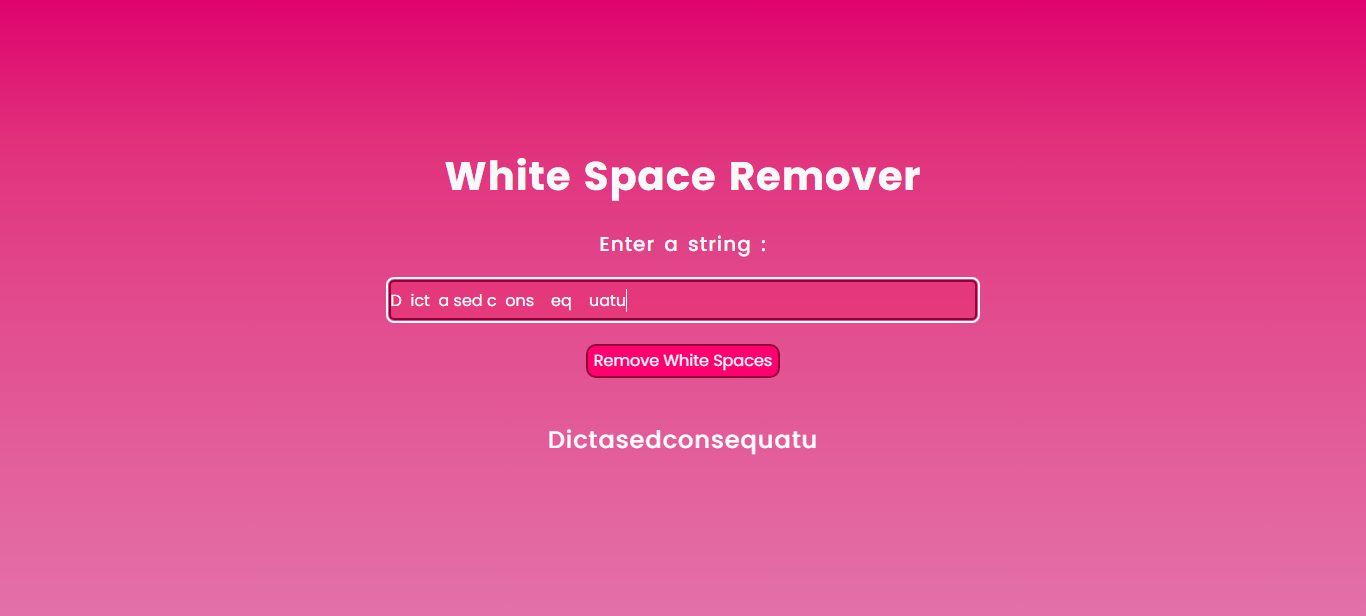
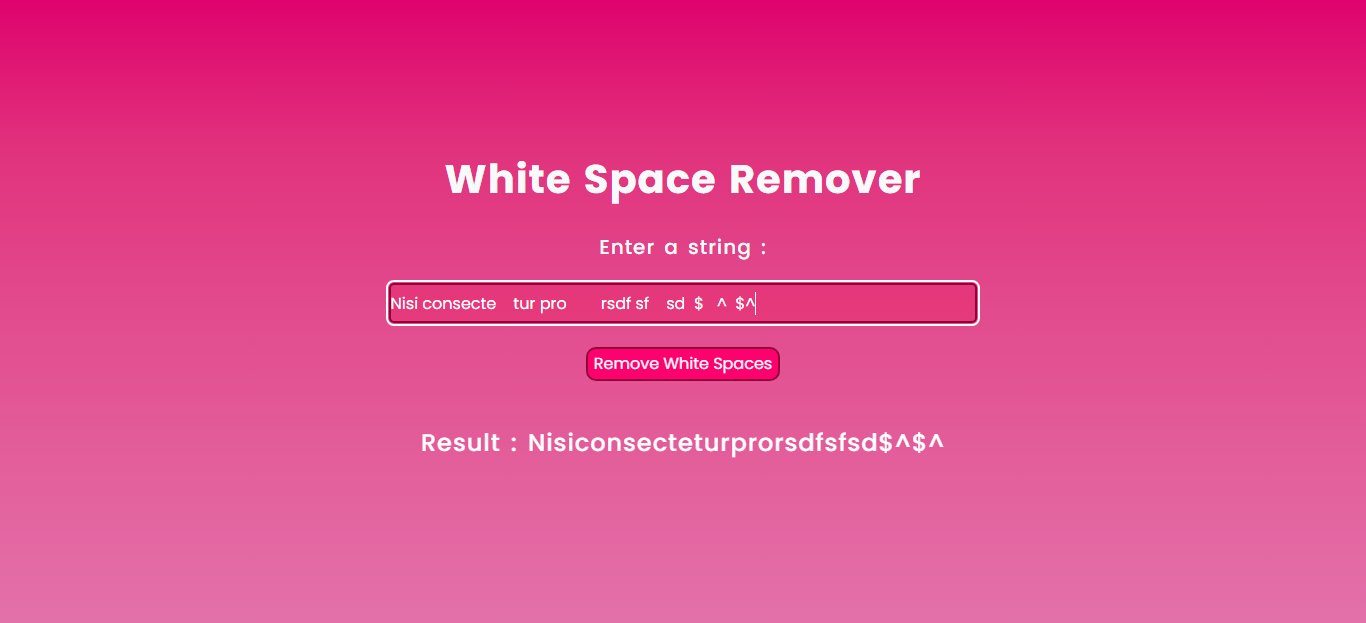
Some minor changes.

diff --git a/assets/js/main.js b/assets/js/main.js
@@ -17,5 +17,5 @@ function removeSpaces() {
     // console.log(newStr);
 
 
-    document.querySelector('#h4').innerHTML = newStr;
+    document.querySelector('#h4').innerHTML = `Result : ${newStr}`;
 }
